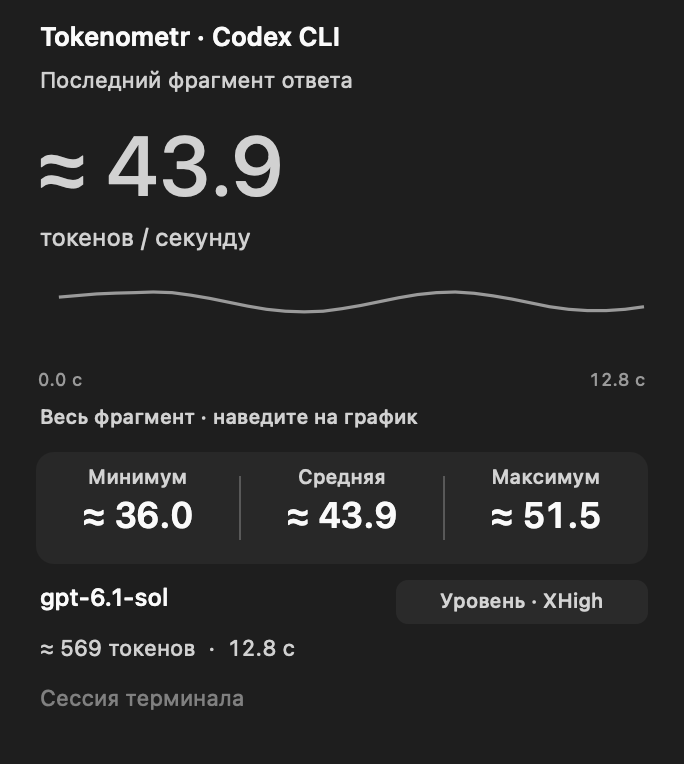
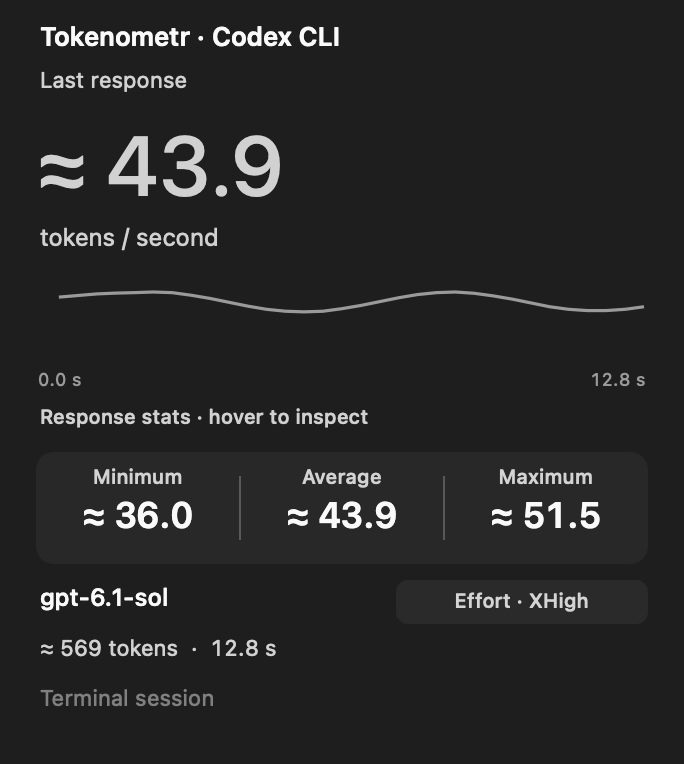
Add English and Russian UI with an English README screenshot

diff --git a/Sources/main.swift b/Sources/main.swift
@@ -22,7 +22,7 @@ final class Sparkline: NSView {
         let area = NSTrackingArea(rect: .zero,
             options: [.mouseEnteredAndExited, .mouseMoved, .enabledDuringMouseDrag, .activeAlways, .inVisibleRect], owner: self, userInfo: nil)
         addTrackingArea(area); mouseTracking = area
-        setAccessibilityLabel("График скорости. Наведение показывает статистику двухсекундного интервала.")
+        setAccessibilityLabel(L("Speed chart. Hover to inspect a two-second interval."))
     }
 
     override func mouseEntered(with event: NSEvent) {
@@ -100,18 +100,18 @@ final class Sparkline: NSView {
 }
 
 func timelineTime(_ time: Double, includeUnit: Bool = true) -> String {
-    if time < 60 { return String(format: "%.1f%@", time, includeUnit ? " с" : "") }
+    if time < 60 { return String(format: "%.1f%@", time, includeUnit ? L(" s") : "") }
     return String(format: "%d:%04.1f", Int(time) / 60, time.truncatingRemainder(dividingBy: 60))
 }
 
 func effortName(_ effort: String?) -> String {
-    guard let effort = effort, !effort.isEmpty else { return "не указан" }
+    guard let effort = effort, !effort.isEmpty else { return L("Not set") }
     return ["none": "None", "minimal": "Minimal", "low": "Low", "medium": "Medium",
             "high": "High", "xhigh": "XHigh", "max": "Max", "ultra": "Ultra"][effort] ?? effort
 }
 
 final class EffortBadge: NSView {
-    private let label = NSTextField(labelWithString: "Уровень · —")
+    private let label = NSTextField(labelWithString: L("Effort · —"))
     override init(frame: NSRect) {
         super.init(frame: frame)
         label.font = .systemFont(ofSize: 10, weight: .medium)
@@ -125,8 +125,8 @@ final class EffortBadge: NSView {
         NSBezierPath(roundedRect: bounds, xRadius: 6, yRadius: 6).fill()
     }
     func update(_ effort: String?) {
-        label.stringValue = "Уровень · \(effortName(effort))"
-        label.toolTip = "Выбранный уровень рассуждения Codex: \(effortName(effort))"
+        label.stringValue = String(format: L("Effort · %@"), effortName(effort))
+        label.toolTip = String(format: L("Selected Codex reasoning effort: %@"), effortName(effort))
     }
 }
 
@@ -136,11 +136,11 @@ final class SpeedStatistics: NSView {
 
     override init(frame: NSRect) {
         super.init(frame: frame)
-        let titles = ["Минимум", "Средняя", "Максимум"]
+        let titles = [L("Minimum"), L("Average"), L("Maximum")]
         let explanations = [
-            "Минимальная скорость при поступлении текста текущего фрагмента, т/с",
-            "Средняя скорость текущего фрагмента, т/с",
-            "Максимальная скорость при поступлении текста текущего фрагмента, т/с"
+            L("Minimum speed in the current segment, tok/s"),
+            L("Average speed in the current segment, tok/s"),
+            L("Maximum speed in the current segment, tok/s")
         ]
         let width = frame.width / 3
         for i in 0..<3 {
@@ -184,9 +184,10 @@ final class SpeedStatistics: NSView {
             values[i].font = .monospacedDigitSystemFont(ofSize: text.count > 8 ? 14 : 18, weight: .semibold)
             values[i].textColor = i == 2 && interval != nil ? .controlAccentColor
                 : (i == 2 && reading?.streaming == true ? .systemGreen : .labelColor)
-            let kind = ["Минимальная", "Средняя", "Максимальная"][i]
-            let span = interval == nil ? "текущего фрагмента" : "выделенного интервала"
-            let tip = "\(kind) скорость \(span), т/с"
+            let tips = interval == nil
+                ? [L("Minimum speed in the current segment, tok/s"), L("Average speed in the current segment, tok/s"), L("Maximum speed in the current segment, tok/s")]
+                : [L("Minimum speed in the selected interval, tok/s"), L("Average speed in the selected interval, tok/s"), L("Maximum speed in the selected interval, tok/s")]
+            let tip = tips[i]
             values[i].toolTip = tip; labels[i].toolTip = tip
         }
     }
@@ -194,14 +195,14 @@ final class SpeedStatistics: NSView {
 
 final class MeterCard: NSView {
     private let title = NSTextField(labelWithString: "Tokenometr")
-    private let status = NSTextField(labelWithString: "Ожидаю Codex")
+    private let status = NSTextField(labelWithString: L("Waiting for Codex"))
     private let speed = NSTextField(labelWithString: "—")
-    private let subtitle = NSTextField(labelWithString: "токенов / секунду")
+    private let subtitle = NSTextField(labelWithString: L("tokens / second"))
     private let model = NSTextField(labelWithString: "Codex")
     private let details = NSTextField(labelWithString: "")
     private let thread = NSTextField(labelWithString: "")
     private let chart = Sparkline()
-    private let scope = NSTextField(labelWithString: "Весь фрагмент · наведите на график")
+    private let scope = NSTextField(labelWithString: L("Response stats · hover to inspect"))
     private let statistics = SpeedStatistics(frame: NSRect(x: 18, y: 100, width: 306, height: 56))
     private let effort = EffortBadge(frame: NSRect(x: 198, y: 70, width: 126, height: 22))
     private var graphFragmentID: String?
@@ -224,7 +225,7 @@ final class MeterCard: NSView {
         scope.font = .systemFont(ofSize: 10, weight: .medium)
         scope.textColor = .secondaryLabelColor
         scope.frame = NSRect(x: 18, y: 164, width: 306, height: 16)
-        scope.toolTip = "Наведите на график: статистика окна около двух секунд. Время отсчитывается от первой наблюдаемой порции текста."
+        scope.toolTip = L("Hover to inspect about two seconds of text arrivals. Time starts with the first observed chunk.")
         chart.onInspect = { [weak self] interval in
             self?.inspectedInterval = interval
             self?.updateStatistics()
@@ -258,11 +259,11 @@ final class MeterCard: NSView {
         thread.stringValue = state.thread
         thread.toolTip = state.thread
         if let reading = state.reading {
-            details.stringValue = String(format: "≈ %d токенов  ·  %.1f с", reading.tokens, reading.duration)
+            details.stringValue = String(format: L("≈ %d tokens  ·  %.1f s"), reading.tokens, reading.duration)
             if state.usingSavedReading, let date = state.savedAt {
                 details.stringValue += "  ·  \(date.formatted(date: .omitted, time: .shortened))"
             }
-        } else { details.stringValue = "Самостоятельный подсчёт текста ответа" }
+        } else { details.stringValue = L("Counting response text locally") }
         if state.fragmentID != graphFragmentID || state.reading == nil {
             chart.clearInspection()
             graphFragmentID = state.fragmentID
@@ -274,12 +275,12 @@ final class MeterCard: NSView {
     private func updateStatistics() {
         statistics.update(lastState.reading, interval: inspectedInterval)
         if let interval = inspectedInterval {
-            scope.stringValue = "\(timelineTime(interval.start, includeUnit: false))–\(timelineTime(interval.end)) · ≈ \(interval.tokens) токенов"
+            scope.stringValue = String(format: L("%@–%@ · ≈ %d tokens"), timelineTime(interval.start, includeUnit: false), timelineTime(interval.end), interval.tokens)
             scope.textColor = .controlAccentColor
         } else {
             scope.stringValue = lastState.reading?.history.contains(where: { $0.speed != nil }) == true
-                ? (lastState.usingSavedReading ? "Сохранённый фрагмент · наведите на график" : "Весь фрагмент · наведите на график")
-                : "Жду данные для графика · окно 2 с"
+                ? (lastState.usingSavedReading ? L("Saved stats · hover to inspect") : L("Response stats · hover to inspect"))
+                : L("Waiting for chart data · 2 s window")
             scope.textColor = .secondaryLabelColor
         }
     }
@@ -303,24 +304,24 @@ final class AppDelegate: NSObject, NSApplicationDelegate, NSMenuDelegate {
             button.image?.isTemplate = true
             button.imagePosition = .imageLeft
             button.font = .monospacedDigitSystemFont(ofSize: 12, weight: .medium)
-            button.title = " — т/с"
+            button.title = L(" — tok/s")
         }
         let menu = NSMenu()
         menu.delegate = self
         let meterItem = NSMenuItem(); meterItem.view = card; menu.addItem(meterItem)
         menu.addItem(.separator())
-        let explanation = NSMenuItem(title: "Как считается скорость", action: nil, keyEquivalent: "")
+        let explanation = NSMenuItem(title: L("How speed is measured"), action: nil, keyEquivalent: "")
         let help = NSMenu()
-        for text in ["Текст приходит из живого потока Codex", "Токены считаем локально · o200k_base",
-                     "Скорость за последние 2 секунды", "Мин / макс — при поступлении текста",
-                     "Последний замер сохраняется для каждого чата", "Скрытое рассуждение и инструменты исключены",
-                     "≈ означает отличие токенизации модели"] {
+        for text in [L("Text comes from the live Codex stream"), L("Tokens are counted locally · o200k_base"),
+                     L("Speed over the last 2 seconds"), L("Min / max are recorded when text arrives"),
+                     L("The last measurement is saved for each chat"), L("Hidden reasoning and tools are excluded"),
+                     L("≈ accounts for tokenizer differences")] {
             let item = NSMenuItem(title: text, action: nil, keyEquivalent: ""); item.isEnabled = false; help.addItem(item)
         }
         explanation.submenu = help; menu.addItem(explanation)
-        loginItem = NSMenuItem(title: "Запускать при входе", action: #selector(toggleLogin), keyEquivalent: "")
+        loginItem = NSMenuItem(title: L("Launch at login"), action: #selector(toggleLogin), keyEquivalent: "")
         loginItem.target = self; menu.addItem(loginItem)
-        let quit = NSMenuItem(title: "Завершить Tokenometr", action: #selector(quitApp), keyEquivalent: "q")
+        let quit = NSMenuItem(title: L("Quit Tokenometr"), action: #selector(quitApp), keyEquivalent: "q")
         quit.target = self; menu.addItem(quit)
         statusItem.menu = menu
         do {
@@ -332,7 +333,7 @@ final class AppDelegate: NSObject, NSApplicationDelegate, NSMenuDelegate {
             }
             monitor = observer; observer.start()
         } catch {
-            var state = MonitorState(); state.note = "Не удалось загрузить токенизатор"
+            var state = MonitorState(); state.note = L("Could not load the tokenizer")
             display(state)
         }
     }
@@ -341,11 +342,11 @@ final class AppDelegate: NSObject, NSApplicationDelegate, NSMenuDelegate {
         guard state != displayedState else { return }
         displayedState = state
         card.update(state)
-        statusItem.button?.title = state.reading?.speed.map { String(format: " ≈ %.1f т/с", $0) } ?? " — т/с"
-        var summary = "\(state.source) · \(state.model) · Уровень \(effortName(state.reasoningEffort))"
+        statusItem.button?.title = state.reading?.speed.map { String(format: L(" ≈ %.1f tok/s"), $0) } ?? L(" — tok/s")
+        var summary = String(format: L("%@ · %@ · Effort %@"), state.source, state.model, effortName(state.reasoningEffort))
         if let history = state.reading?.history, let end = history.last?.time,
            let interval = intervalStatistics(in: history, endingAt: end) {
-            summary += String(format: "\nЗа %.1f с · ≈ %d токенов\nСредняя ≈ %.1f т/с\nМин ≈ %.1f · Макс ≈ %.1f",
+            summary += String(format: L("\nOver %.1f s · ≈ %d tokens\nAverage ≈ %.1f tok/s\nMin ≈ %.1f · Max ≈ %.1f"),
                               interval.duration, interval.tokens, interval.average, interval.minimum, interval.maximum)
         } else { summary += "\n\(state.note)" }
         statusItem.button?.toolTip = summary
@@ -365,7 +366,7 @@ final class AppDelegate: NSObject, NSApplicationDelegate, NSMenuDelegate {
             else { try SMAppService.mainApp.register() }
         } catch {
             let alert = NSAlert()
-            alert.messageText = "Не удалось изменить автозапуск"
+            alert.messageText = L("Could not change launch at login")
             alert.informativeText = error.localizedDescription
             alert.runModal()
         }
@@ -402,9 +403,9 @@ func demoState(completed: Bool = false) -> MonitorState {
         meter.update(tokens: tokens, at: Double(i) * 0.4)
     }
     if completed { meter.finish() }
-    return MonitorState(connected: true, thread: "Демонстрация интерфейса", model: "gpt-6.1-sol",
+    return MonitorState(connected: true, thread: L("Interface preview"), model: "gpt-6.1-sol",
         reasoningEffort: "xhigh", reading: meter.reading(at: 12.8), fragmentID: "demo", changes: 32,
-        note: completed ? "Демо · последний фрагмент ответа" : "Демо · собственный замер")
+        note: completed ? L("Demo · last response") : L("Demo · measuring text arrivals"))
 }
 
 let arguments = CommandLine.arguments
@@ -428,21 +429,21 @@ if let index = arguments.firstIndex(of: "--render-preview"), index + 1 < argumen
         i + 1 < arguments.count ? arguments[i + 1] : nil
     }
     if previewState == "waiting" {
-        card.update(MonitorState(connected: true, thread: "Демонстрация интерфейса",
-                                note: "Демо · жду появления текста"))
+        card.update(MonitorState(connected: true, thread: L("Interface preview"),
+                                note: L("Demo · waiting for text")))
     } else if previewState == "completed" {
         card.update(demoState(completed: true))
     } else if previewState == "saved" {
         var state = demoState(completed: true)
         state.usingSavedReading = true; state.savedAt = Date()
-        state.note = "Демо · сохранённый замер"
+        state.note = L("Demo · saved measurement")
         card.update(state)
     } else if previewState == "hover" {
         card.previewInspection(at: 7.2)
     } else if previewState == "cli" {
         var state = demoState(completed: true)
-        state.source = "Codex CLI"; state.thread = "Сессия терминала"
-        state.note = "Последний фрагмент ответа"
+        state.source = "Codex CLI"; state.thread = L("Terminal session")
+        state.note = L("Last response")
         card.update(state)
     }
     card.layoutSubtreeIfNeeded()
@@ -454,7 +455,7 @@ if let index = arguments.firstIndex(of: "--render-preview"), index + 1 < argumen
     app.setActivationPolicy(.regular)
     let card = MeterCard(); card.update(demoState(completed: true))
     let window = NSWindow(contentRect: card.bounds, styleMask: [.titled, .closable], backing: .buffered, defer: false)
-    window.title = "Tokenometr · проверка наведения"
+    window.title = L("Tokenometr · hover preview")
     window.contentView = card; window.center(); window.makeKeyAndOrderFront(nil)
     app.activate(ignoringOtherApps: true)
     app.run()

diff --git a/Sources/Monitor.swift b/Sources/Monitor.swift
@@ -3,7 +3,7 @@ import Foundation
 struct MonitorState: Equatable {
     var connected = false
     var source = "Codex"
-    var thread = "Ожидаю Codex"
+    var thread = L("Waiting for Codex")
     var model = "Codex"
     var reasoningEffort: String?
     var reading: MeterReading?
@@ -12,7 +12,7 @@ struct MonitorState: Equatable {
     var usingSavedReading = false
     var savedAt: Date?
     var changes = 0
-    var note = "Откройте чат и запустите генерацию"
+    var note = L("Open a chat and start a response")
 }
 
 final class Monitor {
@@ -104,7 +104,7 @@ final class Monitor {
         let usingSaved = reading?.canBeSaved != true && saved != nil
         var state = MonitorState()
         state.connected = clientID != nil
-        state.thread = selectedThread?.name ?? "Ожидаю Codex"
+        state.thread = selectedThread?.name ?? L("Waiting for Codex")
         state.model = accumulator.model == "Codex" ? saved?.model ?? "Codex" : accumulator.model
         state.reasoningEffort = accumulator.reasoningEffort ?? selectedThread?.reasoningEffort
         state.reading = usingSaved ? saved?.reading : reading
@@ -113,18 +113,18 @@ final class Monitor {
         state.usingSavedReading = usingSaved
         state.savedAt = saved?.recordedAt
         state.changes = accumulator.receivedChanges
-        if clientID == nil { state.note = "Ожидаю подключения к Codex" }
-        else if !hasSnapshot { state.note = "Ожидаю открытый чат Codex" }
-        else if reading?.streaming == true { state.note = "Генерация · собственный замер" }
-        else if reading != nil { state.note = "Последний фрагмент ответа" }
-        else { state.note = "Жду появления текста ответа" }
+        if clientID == nil { state.note = L("Waiting to connect to Codex") }
+        else if !hasSnapshot { state.note = L("Waiting for an open Codex chat") }
+        else if reading?.streaming == true { state.note = L("Generating · measuring text arrivals") }
+        else if reading != nil { state.note = L("Last response") }
+        else { state.note = L("Waiting for response text") }
         if usingSaved {
-            state.note = clientID == nil ? "Сохранённый замер · Codex отключён"
-                : reading != nil ? "Сохранённый замер · собираю новый"
-                : "Сохранённый замер · жду новый ответ"
+            state.note = clientID == nil ? L("Saved measurement · Codex disconnected")
+                : reading != nil ? L("Saved measurement · measuring new response")
+                : L("Saved measurement · waiting for a new response")
         }
         if statistics.saveFailed, state.reading != nil, state.reading?.streaming != true {
-            state.note = "Замер в памяти · не удалось сохранить"
+            state.note = L("Measurement in memory · could not save")
         }
         if let candidate = cli.state(at: now) {
             let newer = candidate.reading != nil && (cli.lastArrival > desktopArrival

diff --git a/Sources/CLIObserver.swift b/Sources/CLIObserver.swift
@@ -90,11 +90,11 @@ final class CLIObserver {
         state.fragmentID = usingSaved ? saved?.fragmentID : stream.measurementID
         state.observedReading = reading; state.usingSavedReading = usingSaved; state.savedAt = saved?.recordedAt
         state.changes = stream.changes
-        state.note = reading == nil ? "Жду появления текста ответа"
-            : reading?.streaming == true ? "Генерация · собственный замер" : "Последний фрагмент ответа"
-        if usingSaved { state.note = stream.connected ? "Сохранённый замер · жду новый ответ" : "Сохранённый замер · CLI отключён" }
-        else if !stream.connected { state.note = "Последний замер · CLI отключён" }
-        if statistics.saveFailed, state.reading?.streaming != true { state.note = "Замер в памяти · не удалось сохранить" }
+        state.note = reading == nil ? L("Waiting for response text")
+            : reading?.streaming == true ? L("Generating · measuring text arrivals") : L("Last response")
+        if usingSaved { state.note = stream.connected ? L("Saved measurement · waiting for a new response") : L("Saved measurement · CLI disconnected") }
+        else if !stream.connected { state.note = L("Last measurement · CLI disconnected") }
+        if statistics.saveFailed, state.reading?.streaming != true { state.note = L("Measurement in memory · could not save") }
         return state
     }
 }
@@ -120,7 +120,7 @@ private final class CLIConnection {
             for stream in self.streams.values { stream.finish(); stream.connected = false }
             self.streams = [:]; self.lastPoll = -10
             if connected {
-                self.request("initialize", ["clientInfo": ["name": "tokenometr", "title": "Tokenometr", "version": "0.2.0"],
+                self.request("initialize", ["clientInfo": ["name": "tokenometr", "title": "Tokenometr", "version": "0.2.1"],
                     "capabilities": ["experimentalApi": true]])
             }
         }

diff --git a/Sources/CLIStream.swift b/Sources/CLIStream.swift
@@ -4,7 +4,7 @@ import Foundation
 /// reasoning, tools and server usage never establish an arrival sample.
 final class CLIStream {
     let threadID: String
-    var name = "Сессия терминала"
+    var name = L("Terminal session")
     var model = "Codex"
     var reasoningEffort: String?
     var connected = false

diff --git a/Sources/Localization.swift b/Sources/Localization.swift
@@ -1,0 +1,6 @@
+import Foundation
+
+/// AppKit follows the user's preferred macOS language; English is the fallback.
+func L(_ key: String) -> String {
+    NSLocalizedString(key, comment: "")
+}

diff --git a/README.md b/README.md
@@ -4,13 +4,13 @@ See how fast Codex writes, right in your Mac's menu bar.
 
 Tokenometr shows the speed of incoming text in tokens per second. It works with **Codex Desktop and Codex CLI**.
 
-**[Download for Mac (Apple Silicon)](https://github.com/oxgeneral/Tokenometr/releases/download/v0.2.0/Tokenometr-0.2.0-macOS-arm64.zip)**
+**[Download for Mac (Apple Silicon)](https://github.com/oxgeneral/Tokenometr/releases/download/v0.2.1/Tokenometr-0.2.1-macOS-arm64.zip)**
 
 macOS 13 or later · About 4 MB
 
 <img src="docs/screenshots/tokenometr-cli.png" alt="Tokenometr showing speed, a chart, and response statistics" width="342" />
 
-*Demo screenshot. The app's interface is currently in Russian.*
+*Demo screenshot.*
 
 ## Get started
 
@@ -18,7 +18,7 @@ macOS 13 or later · About 4 MB
 2. Open Tokenometr, then use Codex as usual.
 3. Click the menu bar icon to see your stats or enable launch at login.
 
-No API key or extra setup needed. This release is unsigned, so macOS may warn you on first launch.
+The app follows your Mac's language: English or Russian. No API key or extra setup needed. This release is unsigned, so macOS may warn you on first launch.
 
 ## What you can see
 

diff --git a/docs/technical-notes.md b/docs/technical-notes.md
@@ -2,6 +2,8 @@
 
 [Back to the README](../README.md)
 
+The interface supports English and Russian and follows macOS language preferences, with English as the fallback.
+
 ## Build from source
 
 To build from source, install Apple Command Line Tools and run:
